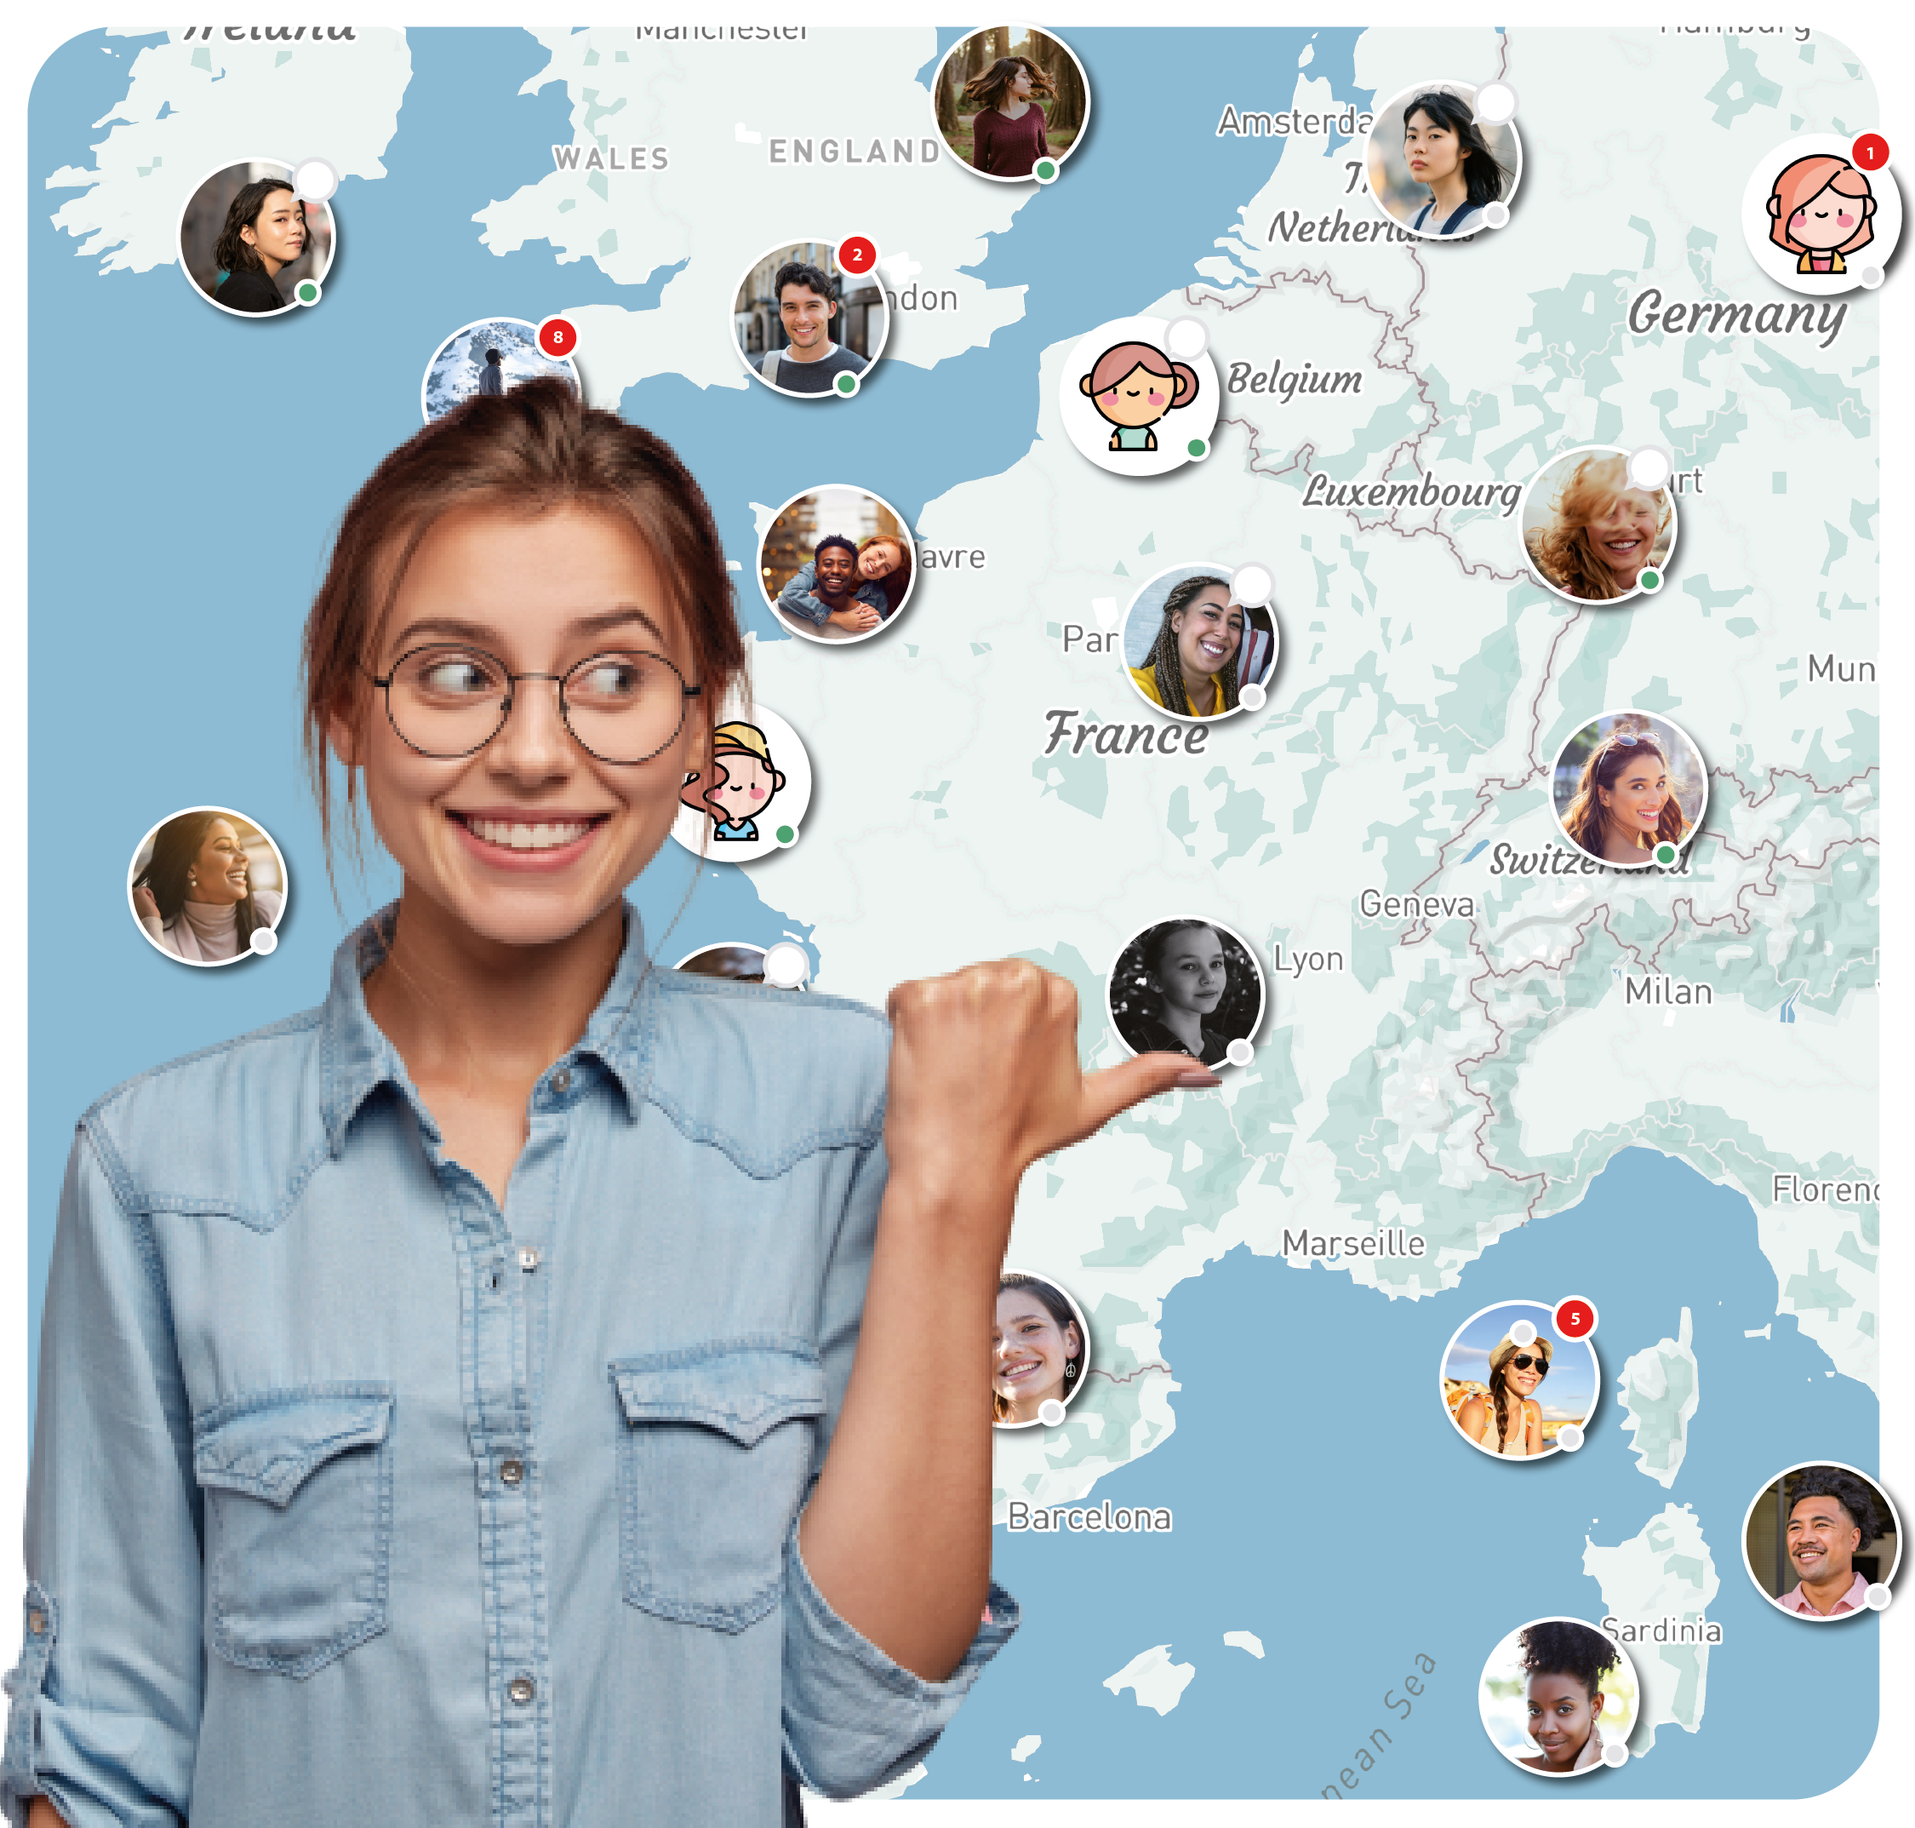
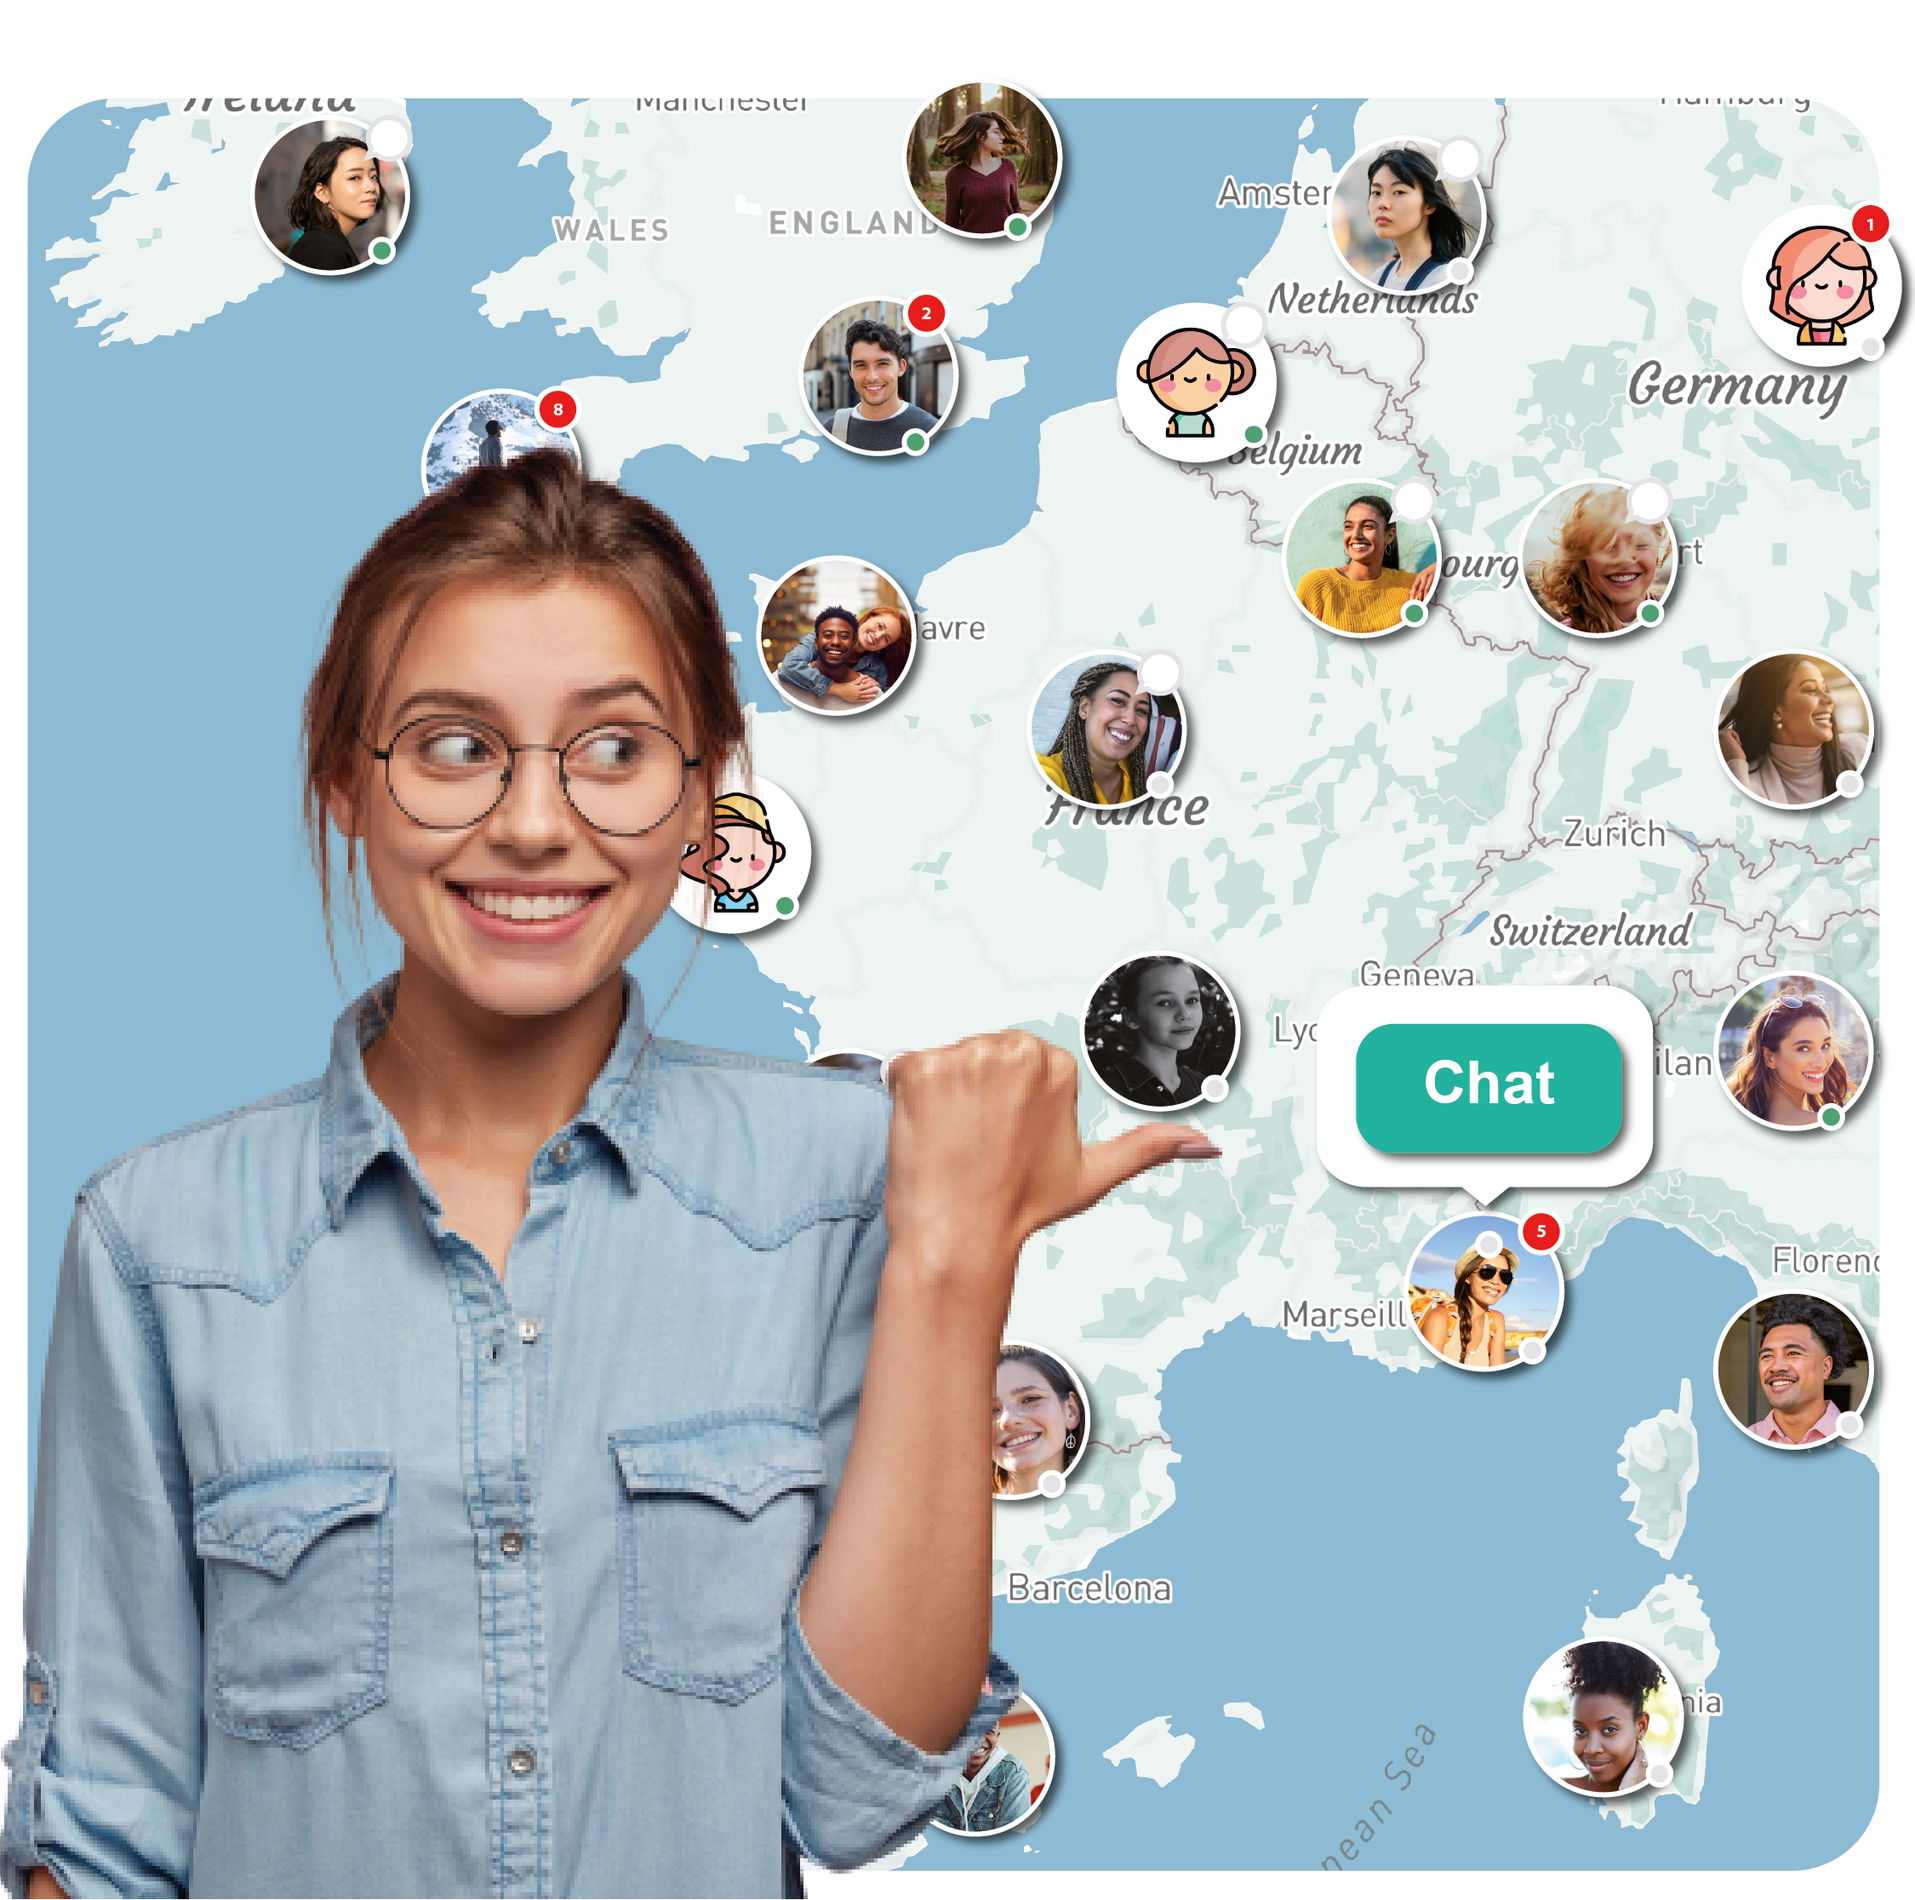
change landingimage

diff --git a/components/Auth/SectionMapChatSecurity.tsx b/components/Auth/SectionMapChatSecurity.tsx
@@ -9,15 +9,16 @@ const SectionMapChatSecurity = () => {
     return (
         <Flex
             py={12}
-            w={'full'}
+            w="full"
             gap={10}
-            alignItems={'flex-start'}
+            alignItems="flex-start"
             flexDir={{ base: 'column', md: 'row' }}
             flexWrap="wrap"
-            mx="auto"
+            maxW={{ base: '100%', xl: '1300px' }} // Taille maximale de 1400px pour les écrans extra larges (xl)
+            mx={{ base: '2', xl: 'auto' }} // Marge horizontale sur les côtés pour les écrans extra larges
         >
             {/* Map Section */}
-            <Box flex={1}  mx={{ base: '2', md: '4' }}>
+            <Box flex={1}>
                 <Image
                     src="/images/LandingI-01.png"
                     alt="PenPalMap Map"

diff --git a/components/Auth/SignIn.tsx b/components/Auth/SignIn.tsx
@@ -73,13 +73,13 @@ const SignIn = () => {
                     // bg="#8CBBD4" // Ajout de la couleur de fond
                 >
                     <Image
-                        src="/images/LandingMap_light2.png"
+                        src="/images/LandingMap_light.png"
                         alt="PenPalMap"
                         width="50%"
                         display="inline-block"
                     />
                     <Image
-                        src="/images/LandingMap_light2.png"
+                        src="/images/LandingMap_light.png"
                         alt="PenPalMap"
                         width="50%"
                         display="inline-block"

diff --git a/components/Auth/Register.tsx b/components/Auth/Register.tsx
@@ -64,13 +64,13 @@ const Register = () => {
                     bg="#8CBBD4" // Ajout de la couleur de fond
                 >
                     <Image
-                        src="/images/LandingMap_light2.png"
+                        src="/images/LandingMap_light.png"
                         alt="PenPalMap"
                         width="50%"
                         display="inline-block"
                     />
                     <Image
-                        src="/images/LandingMap_light2.png"
+                        src="/images/LandingMap_light.png"
                         alt="PenPalMap"
                         width="50%"
                         display="inline-block"
